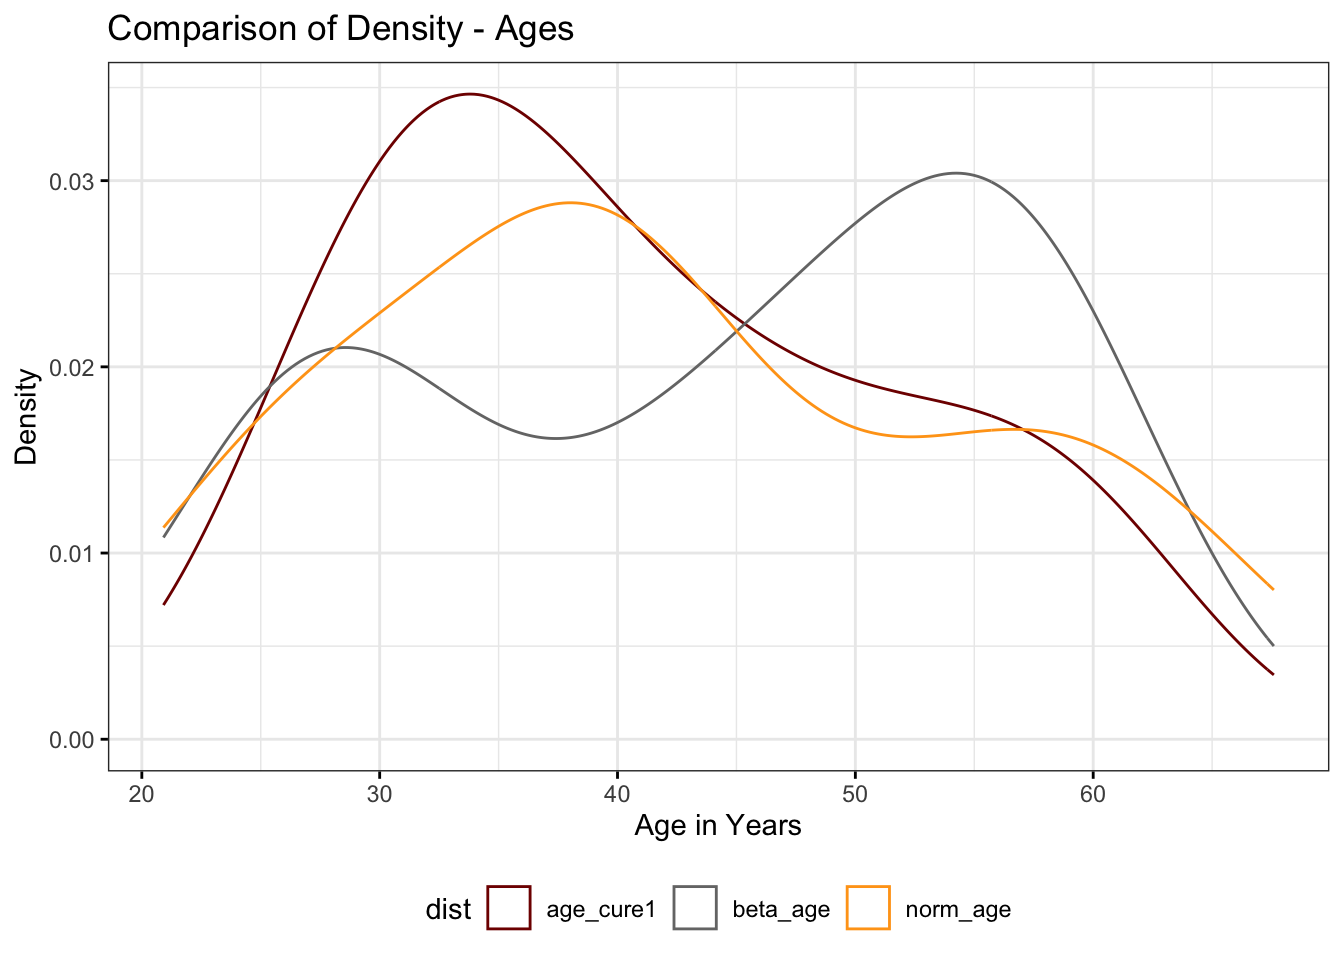
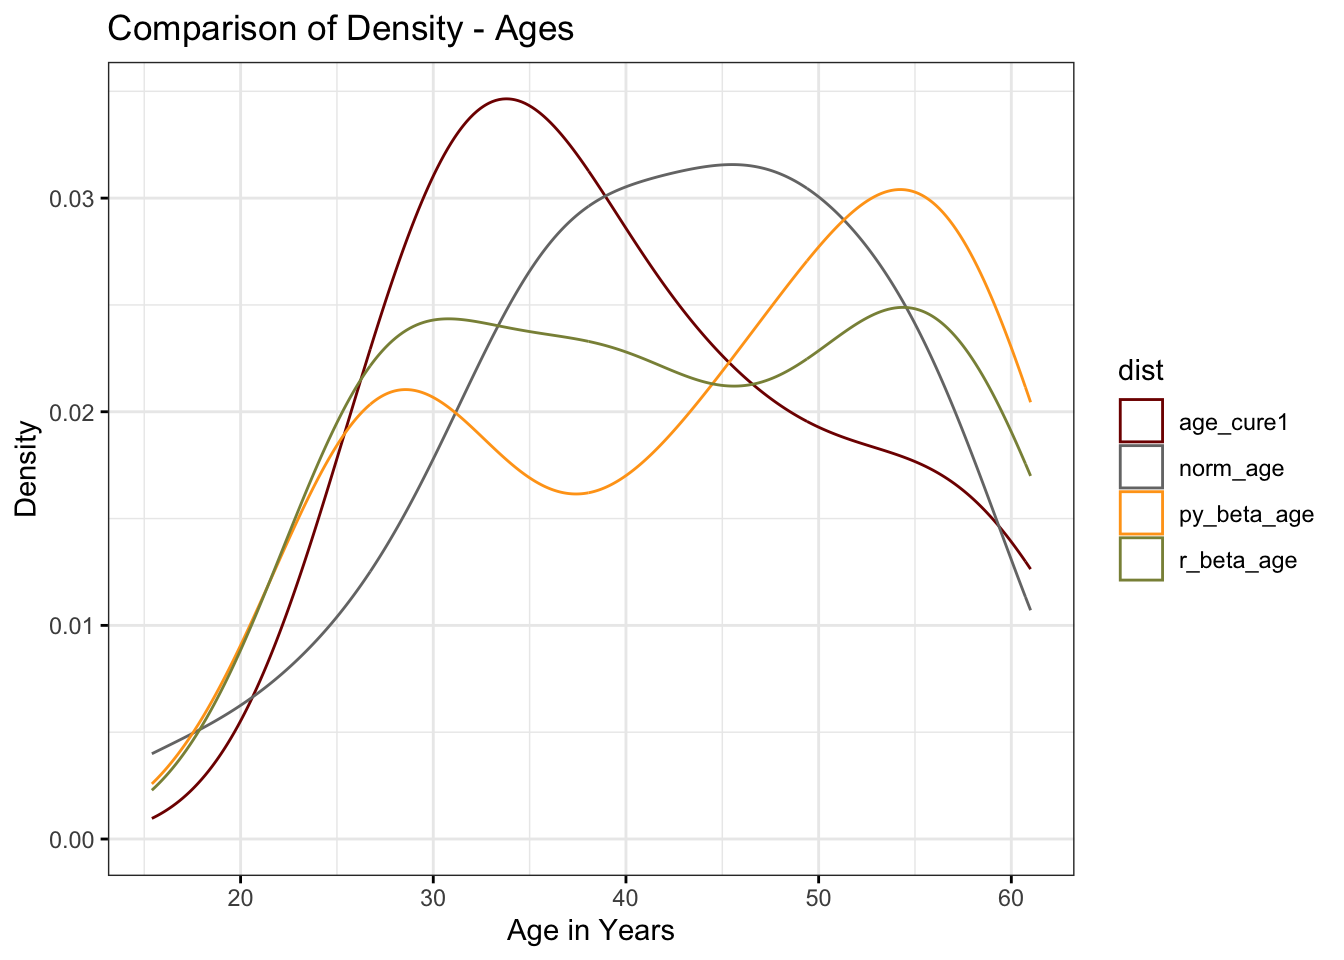
complete

diff --git a/docs/posts/07-30-distribution-fitting/index.html b/docs/posts/07-30-distribution-fitting/index.html
@@ -7,7 +7,7 @@
 <meta name="viewport" content="width=device-width, initial-scale=1.0, user-scalable=yes">
 
 <meta name="author" content="James Hunter">
-<meta name="dcterms.date" content="2025-08-01">
+<meta name="dcterms.date" content="2025-08-10">
 <meta name="description" content="In which I explore various software techniques in R and Python for fitting statistical distributions to data">
 
 <title>Fitting Distributions – Methods, Virology &amp; More</title>
@@ -251,7 +251,7 @@ window.Quarto = {
       <div>
       <div class="quarto-title-meta-heading">Published</div>
       <div class="quarto-title-meta-contents">
-        <p class="date">August 1, 2025</p>
+        <p class="date">August 10, 2025</p>
       </div>
     </div>
     
@@ -588,23 +588,24 @@ A = 0.64476, p-value = 0.08372</code></pre>
 <span id="cb13-9"><a href="#cb13-9" aria-hidden="true" tabindex="-1"></a>       <span class="fl">25.28190799</span>, <span class="fl">25.17327387</span>, <span class="fl">28.87948644</span>, <span class="fl">58.28830534</span>, <span class="fl">48.82959254</span>,</span>
 <span id="cb13-10"><a href="#cb13-10" aria-hidden="true" tabindex="-1"></a>       <span class="fl">48.63264843</span>, <span class="fl">52.77739289</span>, <span class="fl">58.40751967</span>, <span class="fl">54.4263961</span> , <span class="fl">35.94172602</span>])</span></code><button title="Copy to Clipboard" class="code-copy-button"><i class="bi"></i></button></pre></div>
 </div>
-<p>We can now return to R and use the beta parameters we discovered in <code>distfit</code> to create an age variable. We’ll wrap this up by comparing this variable with a variable created via the normal distribution<a href="#fn4" class="footnote-ref" id="fnref4" role="doc-noteref"><sup>4</sup></a> and the original <code>age_years</code> variable.</p>
+<p>We can now return to R and use the beta parameters we discovered in <code>distfit</code> to create an age variable. We can also apply the shape parameters <span class="math inline">\(\alpha\)</span> and <span class="math inline">\(\beta\)</span> from <code>distfit</code> the <code>rbeta</code> function in R to generate values in R. However, R generates values for the beta distribution in the range of 0 to 1. We will need to adapt that range to the minimum and maximum values for <code>age_cure1</code> to mimic the age range in the original variable.</p>
+<p>We’ll wrap this up by comparing this variable with a variable created via the normal distribution<a href="#fn4" class="footnote-ref" id="fnref4" role="doc-noteref"><sup>4</sup></a> and the original <code>age_years</code> variable.</p>
 <div class="cell">
 <div class="cell-output cell-output-stdout">
 <pre><code>Descriptive Statistics  
 age_set  
 N: 30  
 
-                  age_cure1   beta_age   norm_age
---------------- ----------- ---------- ----------
-           Mean       40.93      44.06      42.04
-        Std.Dev       10.98      12.47      13.03
-            Min       25.00      25.17      20.91
-         Median       39.00      46.55      39.69
-            Max       61.00      59.69      67.60
-        N.Valid       30.00      30.00      30.00
-              N       30.00      30.00      30.00
-      Pct.Valid      100.00     100.00     100.00</code></pre>
+                  age_cure1   norm_age   py_beta_age   r_beta_age
+--------------- ----------- ---------- ------------- ------------
+           Mean       40.93      42.17         44.06        42.40
+        Std.Dev       10.98      10.83         12.47        12.14
+            Min       25.00      15.39         25.17        25.00
+         Median       39.00      43.47         46.55        39.88
+            Max       61.00      58.09         59.69        61.00
+        N.Valid       30.00      30.00         30.00        30.00
+              N       30.00      30.00         30.00        30.00
+      Pct.Valid      100.00     100.00        100.00       100.00</code></pre>
 </div>
 <div class="cell-output-display">
 <div>
@@ -651,12 +652,12 @@ Venables, W. N., Brian D. Ripley, and W. N. Venables. 2002. <em>Modern Applied S
 </section><section class="quarto-appendix-contents" id="quarto-citation"><h2 class="anchored quarto-appendix-heading">Citation</h2><div><div class="quarto-appendix-secondary-label">BibTeX citation:</div><pre class="sourceCode code-with-copy quarto-appendix-bibtex"><code class="sourceCode bibtex">@online{hunter2025,
   author = {Hunter, James},
   title = {Fitting {Distributions}},
-  date = {2025-08-01},
+  date = {2025-08-10},
   url = {https://jameshunterbr.github.io/posts/07-30-distribution-fitting/},
   langid = {en}
 }
 </code><button title="Copy to Clipboard" class="code-copy-button"><i class="bi"></i></button></pre><div class="quarto-appendix-secondary-label">For attribution, please cite this work as:</div><div id="ref-hunter2025" class="csl-entry quarto-appendix-citeas" role="listitem">
-Hunter, James. 2025. <span>“Fitting Distributions.”</span> August 1,
+Hunter, James. 2025. <span>“Fitting Distributions.”</span> August 10,
 2025. <a href="https://jameshunterbr.github.io/posts/07-30-distribution-fitting/">https://jameshunterbr.github.io/posts/07-30-distribution-fitting/</a>.
 </div></div></section></div></main> <!-- /main -->
 <script id="quarto-html-after-body" type="application/javascript">

diff --git a/docs/posts.html b/docs/posts.html
@@ -220,7 +220,7 @@ window.Quarto = {
 
 <div class="quarto-listing quarto-listing-container-default" id="listing-listing">
 <div class="list quarto-listing-default">
-<div class="quarto-post image-right" data-index="0" data-categories="UXVhcnRvJTJDUiUyQ0Jpb3N0YXRpc3RpY3M=" data-listing-date-sort="1754017200000" data-listing-file-modified-sort="1754756225698" data-listing-date-modified-sort="NaN" data-listing-reading-time-sort="16" data-listing-word-count-sort="3060">
+<div class="quarto-post image-right" data-index="0" data-categories="UXVhcnRvJTJDUiUyQ0Jpb3N0YXRpc3RpY3M=" data-listing-date-sort="1754794800000" data-listing-file-modified-sort="1754763092522" data-listing-date-modified-sort="NaN" data-listing-reading-time-sort="16" data-listing-word-count-sort="3161">
 <div class="thumbnail"><a href="./posts/07-30-distribution-fitting/index.html" class="no-external">
 
 <img loading="lazy" src="./posts/07-30-distribution-fitting/leemis_extract.png" class="thumbnail-image">
@@ -246,7 +246,7 @@ window.Quarto = {
 <div class="metadata">
 <a href="./posts/07-30-distribution-fitting/index.html" class="no-external">
 <div class="listing-date">
-Aug 1, 2025
+Aug 10, 2025
 </div>
 <div class="listing-author">
 James Hunter
